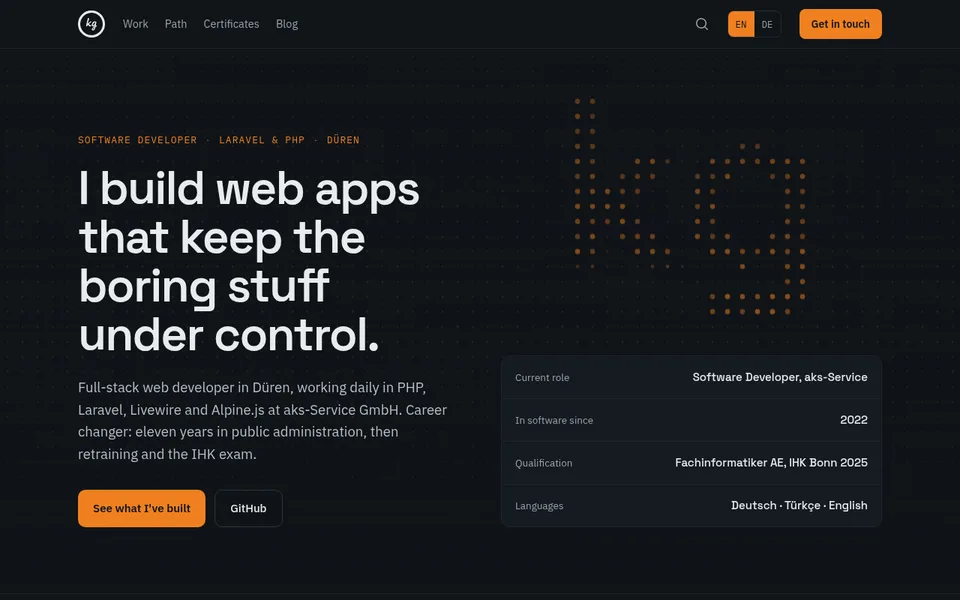
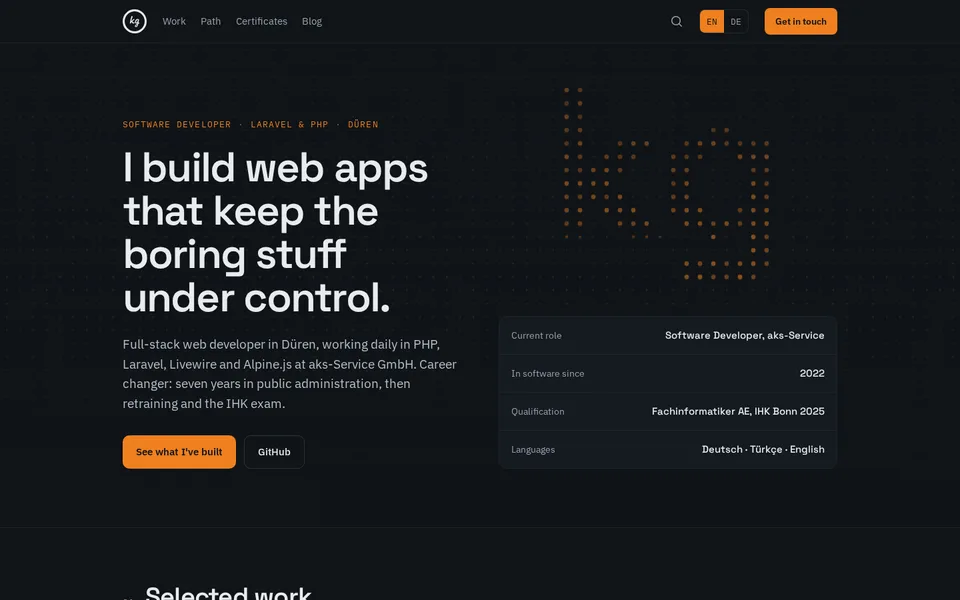
chore: refresh the kadir.guelec.eu screenshot and start year
The hero on kadir.guelec.eu now says seven years of public service, and the
project started in 2026.

diff --git a/database/seeders/data/projects.php b/database/seeders/data/projects.php
@@ -138,7 +138,7 @@ Proje, Yazılım Geliştirici (IHK) bitirme sınavım için başladı. Mezuniyet
         'name' => 'kadir.guelec.eu',
         'is_featured' => false,
         'status' => 'live',
-        'started_year' => 2025,
+        'started_year' => 2026,
         'tagline' => 'Almanca ve İngilizce portfolyom ve blogum. 11ty ile üretilen statik bir site: veritabanı yok, sunucu tarafı kod yok.',
         'stack' => [
             0 => '11ty',
